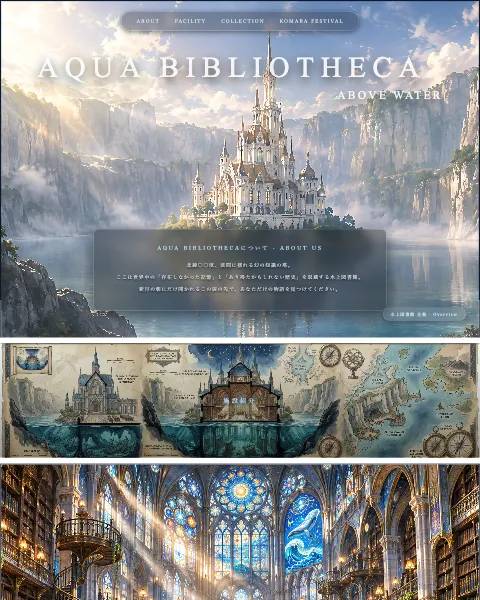
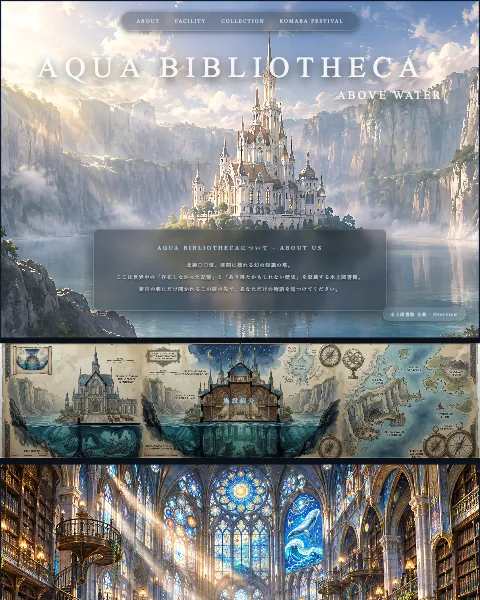
ステージの各パーツの隙間の色を修正した

Changed region(s): [[0.0, 0.75, 1.0, 1.0], [0.0, 0.51, 1.0, 0.6]]

diff --git a/server/sites/library1.html b/server/sites/library1.html
@@ -9,8 +9,7 @@
         body { 
             margin: 0; 
             padding: 0; 
-            background: linear-gradient(135deg, #0a1118 0%, #030507 100%); 
-            background-attachment: fixed; 
+            background: #0a1017; /* パーツの間の隙間の色。fixed のグラデーションはページ全体の書き出しで白くなるため単色にする */
             color: #fff; 
             font-family: "Shippori Mincho", "Zen Old Mincho", serif; 
         }

diff --git a/server/sites/museum.html b/server/sites/museum.html
@@ -10,8 +10,7 @@
         body {
             margin: 0;
             padding: 0;
-            background: linear-gradient(135deg, #15181c 0%, #05080a 100%);
-            background-attachment: fixed; 
+            background: #0a1017; /* パーツの間の隙間の色。fixed のグラデーションはページ全体の書き出しで白くなるため単色にする */
             color: #fff;
             font-family: "Shippori Mincho", "Zen Old Mincho", serif; 
         }

diff --git a/server/sites/library2.html b/server/sites/library2.html
@@ -9,8 +9,7 @@
       body {
         margin: 0;
         padding: 0;
-        background: linear-gradient(135deg, #0a1118 0%, #030507 100%);
-        background-attachment: fixed;
+        background: #0a1017; /* パーツの間の隙間の色。fixed のグラデーションはページ全体の書き出しで白くなるため単色にする */
         color: #fff;
         font-family: "Shippori Mincho", "Zen Old Mincho", serif;
       }
